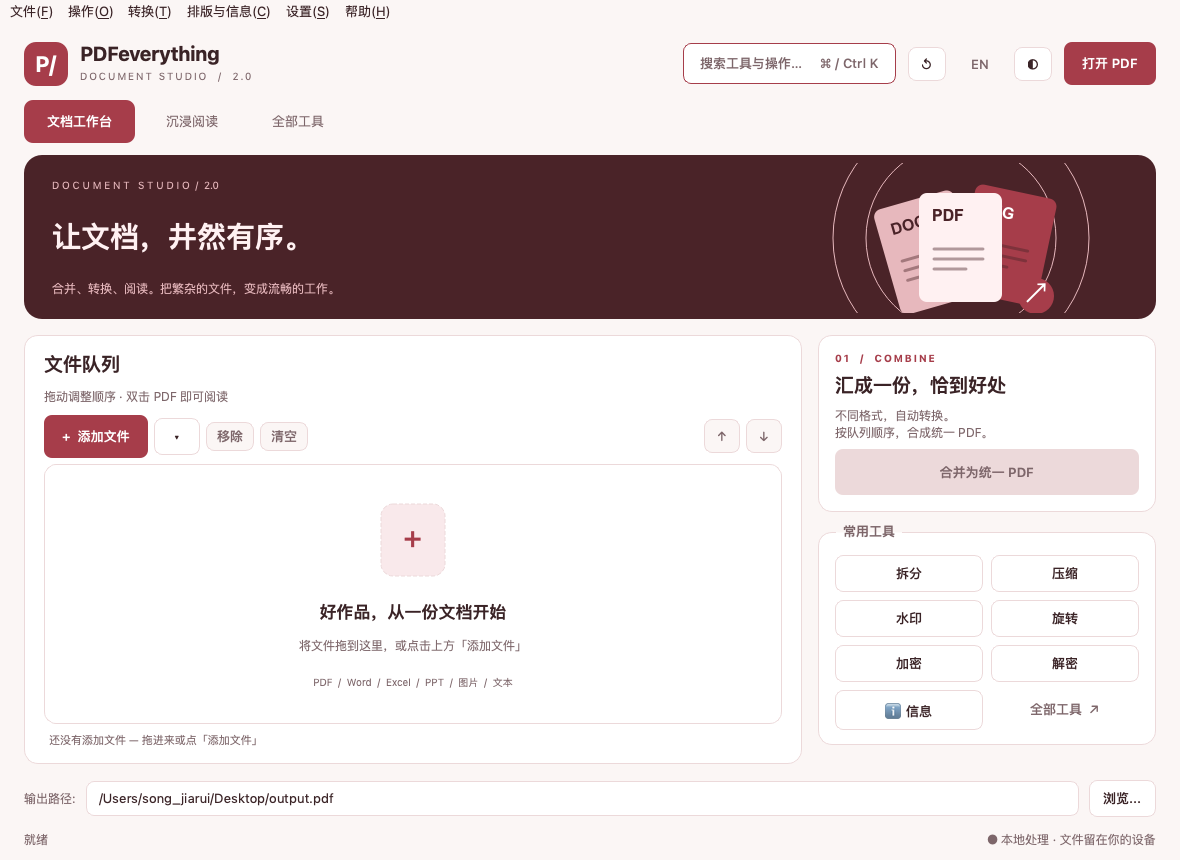
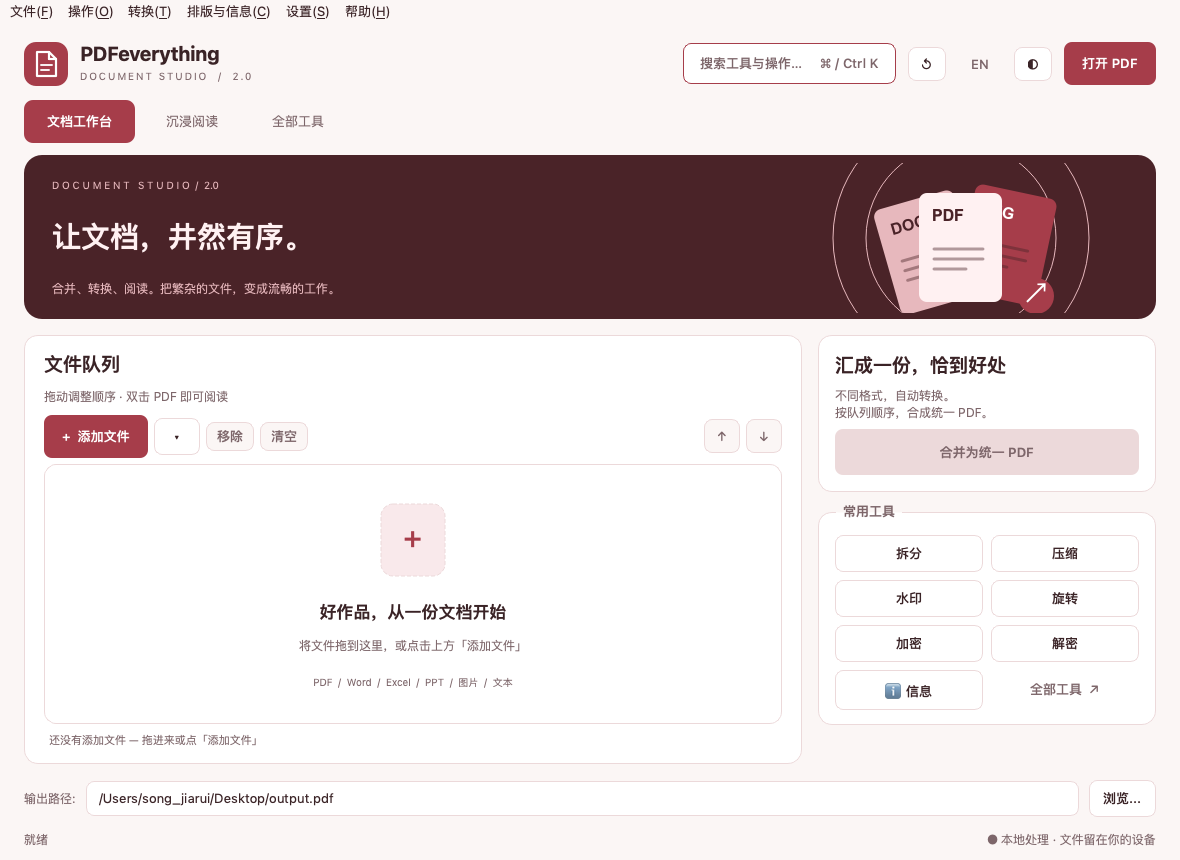
✨ Studio 品牌标记与查找栏按钮
- BrandMark：用 QPainter 绘制文档折角图标，替代 P/ 文字占位，跟随配色刷新
- 阅读器查找栏按钮由符号改为「上一个/下一个/关闭」文字按钮，40px 高可点区域
- 移除合并卡片上多余的 01 / COMBINE overline
- 主题去掉 brand_mark 样式，改由 BrandMark 自绘
- Studio 回归补充查找栏按钮文案与尺寸断言；更新截图并新增查找栏截图

Changed region(s): [[0.7017, 0.393, 0.9763, 0.8465], [0.8237, 0.6651, 0.8542, 0.6953], [0.0305, 0.0605, 0.061, 0.0907]]

diff --git a/gui/main_window.py b/gui/main_window.py
@@ -52,7 +52,8 @@ from .i18n import tr, set_language, current_language, app_settings
 from .pdf_reader_widget import PdfReaderWidget
 from .workers import BaseWorker
 from .theme import SCHEMES, apply_theme, colors, normalize_scheme
-from .workspace import WorkspaceHero, ToolLibrary, CommandPalette, HistoryDialog, clean_title, label
+from .workspace import (BrandMark, WorkspaceHero, ToolLibrary, CommandPalette,
+                        HistoryDialog, clean_title, label)
 
 
 VERSION = "2.0.1"
@@ -92,8 +93,9 @@ class MainWindow(QMainWindow):
         main_layout.setContentsMargins(24, 18, 24, 12)
         main_layout.setSpacing(14)
         header = QHBoxLayout(); header.setSpacing(12)
-        mark = label("P/", "brand_mark"); mark.setFixedSize(44, 44)
-        mark.setAlignment(Qt.AlignmentFlag.AlignCenter); header.addWidget(mark)
+        self.brand_mark = BrandMark()
+        self.brand_mark.setToolTip("PDFeverything")
+        header.addWidget(self.brand_mark)
         brand = QVBoxLayout(); brand.setSpacing(1)
         brand.addWidget(label("PDFeverything", "brand"))
         brand.addWidget(label("DOCUMENT STUDIO  /  2.0", "edition")); header.addLayout(brand)
@@ -141,6 +143,7 @@ class MainWindow(QMainWindow):
         self._style_reader()
         self.reader.refresh_theme()
         self.hero.apply_theme()
+        self.brand_mark.update()
         self.tool_library.apply_theme()
         self.file_list.list_widget.viewport().update()
         if not self.reader.has_document(): self.reader._show_welcome()
@@ -156,6 +159,7 @@ class MainWindow(QMainWindow):
         self._style_reader()
         self.reader.refresh_theme()
         self.hero.apply_theme()
+        self.brand_mark.update()
         self.tool_library.apply_theme()
         self.file_list.list_widget.viewport().update()
         if not self.reader.has_document(): self.reader._show_welcome()
@@ -370,8 +374,11 @@ class MainWindow(QMainWindow):
         self.reader.btn_tab_search.setText(tr("reader_tab_search"))
         self.reader.search_edit.setPlaceholderText(tr("reader_search_placeholder"))
         self.reader.search_check_case.setText(tr("reader_search_case"))
+        self.reader.btn_search_prev.setText(tr("reader_search_prev_short"))
         self.reader.btn_search_prev.setToolTip(tr("reader_search_prev"))
+        self.reader.btn_search_next.setText(tr("reader_search_next_short"))
         self.reader.btn_search_next.setToolTip(tr("reader_search_next"))
+        self.reader.btn_search_close.setText(tr("reader_search_close_short"))
         self.reader.btn_search_close.setToolTip(tr("reader_search_close"))
         self.reader.refresh_search_status()
         if not self.reader._outline_entries:
@@ -451,7 +458,6 @@ class MainWindow(QMainWindow):
         self.merge_group.setObjectName("merge_card")
         mg_layout = QVBoxLayout(self.merge_group); mg_layout.setSpacing(8)
         mg_layout.setContentsMargins(16, 16, 16, 16)
-        overline = label("01  /  COMBINE", "eyebrow"); mg_layout.addWidget(overline)
         merge_title = label("", "section_title"); mg_layout.addWidget(merge_title)
         merge_desc = label(""); merge_desc.setWordWrap(True); mg_layout.addWidget(merge_desc)
         self._studio_labels += [(merge_title, "studio_merge_title"), (merge_desc, "studio_merge_desc")]

diff --git a/gui/pdf_reader_widget.py b/gui/pdf_reader_widget.py
@@ -595,7 +595,8 @@ class PdfReaderWidget(QWidget):
             f"QLineEdit{{color:{fg};background:{_dc('#1e1e1e', '#f7f7f7')};"
             f"border:1px solid {brd};border-radius:4px;padding:4px 8px;font-size:13px;}}"
             f"QLabel{{color:{fg};font-size:12px;}}"
-            f"QCheckBox{{color:{fg};font-size:12px;}}")
+            f"QCheckBox{{color:{fg};font-size:12px;}}"
+            f"QPushButton{{padding:4px 10px;font-size:12px;border-radius:6px;}}")
         row = QHBoxLayout(bar)
         row.setContentsMargins(8, 5, 8, 5)
         row.setSpacing(6)
@@ -613,21 +614,24 @@ class PdfReaderWidget(QWidget):
         self.search_count_label = QLabel("")
         row.addWidget(self.search_count_label)
 
-        self.btn_search_prev = QPushButton("◀")
-        self.btn_search_prev.setFixedSize(28, 26)
+        self.btn_search_prev = QPushButton(tr("reader_search_prev_short"))
+        self.btn_search_prev.setMinimumWidth(64); self.btn_search_prev.setMinimumHeight(30)
         self.btn_search_prev.setToolTip(tr("reader_search_prev"))
+        self.btn_search_prev.setAccessibleName(tr("reader_search_prev"))
         self.btn_search_prev.clicked.connect(self.find_prev)
         row.addWidget(self.btn_search_prev)
 
-        self.btn_search_next = QPushButton("▶")
-        self.btn_search_next.setFixedSize(28, 26)
+        self.btn_search_next = QPushButton(tr("reader_search_next_short"))
+        self.btn_search_next.setMinimumWidth(64); self.btn_search_next.setMinimumHeight(30)
         self.btn_search_next.setToolTip(tr("reader_search_next"))
+        self.btn_search_next.setAccessibleName(tr("reader_search_next"))
         self.btn_search_next.clicked.connect(self.find_next)
         row.addWidget(self.btn_search_next)
 
-        self.btn_search_close = QPushButton("✕")
-        self.btn_search_close.setFixedSize(28, 26)
+        self.btn_search_close = QPushButton(tr("reader_search_close_short"))
+        self.btn_search_close.setMinimumWidth(48); self.btn_search_close.setMinimumHeight(30)
         self.btn_search_close.setToolTip(tr("reader_search_close"))
+        self.btn_search_close.setAccessibleName(tr("reader_search_close"))
         self.btn_search_close.clicked.connect(lambda: self.show_search_bar(False))
         row.addWidget(self.btn_search_close)
 

diff --git a/gui/workspace.py b/gui/workspace.py
@@ -3,7 +3,7 @@
 import re
 
 from PyQt6.QtCore import Qt, QRectF, QSize, QTimer
-from PyQt6.QtGui import QColor, QFont, QPainter, QPen
+from PyQt6.QtGui import QColor, QFont, QPainter, QPainterPath, QPen
 from PyQt6.QtWidgets import (
     QDialog, QGridLayout, QHBoxLayout, QLabel, QLineEdit, QListWidget,
     QListWidgetItem, QPushButton, QScrollArea, QVBoxLayout, QWidget,
@@ -16,6 +16,45 @@ from .theme import colors, file_icon
 def label(text, name="muted"):
     w = QLabel(text); w.setObjectName(name)
     return w
+
+
+class BrandMark(QWidget):
+    """A document-with-folded-corner mark, painted in the active accent color."""
+
+    def __init__(self, parent=None):
+        super().__init__(parent)
+        self.setFixedSize(44, 44)
+        self.setAccessibleName("PDFeverything")
+
+    def paintEvent(self, event):
+        c = colors()
+        p = QPainter(self)
+        p.setRenderHint(QPainter.RenderHint.Antialiasing)
+        p.setPen(Qt.PenStyle.NoPen)
+        p.setBrush(QColor(c["accent"]))
+        p.drawRoundedRect(QRectF(0, 0, 44, 44), 12, 12)
+
+        ink = QColor(c["on_accent"])
+        pen = QPen(ink, 2.2)
+        pen.setJoinStyle(Qt.PenJoinStyle.RoundJoin)
+        pen.setCapStyle(Qt.PenCapStyle.RoundCap)
+        p.setPen(pen)
+        p.setBrush(Qt.BrushStyle.NoBrush)
+        page = QPainterPath()
+        page.moveTo(13, 10)
+        page.lineTo(25, 10)
+        page.lineTo(32, 17)
+        page.lineTo(32, 34)
+        page.lineTo(13, 34)
+        page.closeSubpath()
+        p.drawPath(page)
+        p.drawLine(25, 10, 25, 17)
+        p.drawLine(25, 17, 32, 17)
+
+        p.setPen(QPen(ink, 1.8, Qt.PenStyle.SolidLine, Qt.PenCapStyle.RoundCap))
+        p.drawLine(17, 23, 28, 23)
+        p.drawLine(17, 28, 25, 28)
+        p.end()
 
 
 class DocumentArt(QWidget):

diff --git a/gui/i18n.py b/gui/i18n.py
@@ -131,6 +131,9 @@ T = {
     "reader_search_prev":     {"zh": "上一个 (⇧⏎)",                                  "en": "Previous (⇧⏎)"},
     "reader_search_next":     {"zh": "下一个 (⏎)",                                   "en": "Next (⏎)"},
     "reader_search_close":    {"zh": "关闭查找栏 (Esc)",                              "en": "Close find bar (Esc)"},
+    "reader_search_prev_short": {"zh": "上一个", "en": "Previous"},
+    "reader_search_next_short": {"zh": "下一个", "en": "Next"},
+    "reader_search_close_short": {"zh": "关闭", "en": "Close"},
     "reader_search_found":    {"zh": "找到 {count} 处，分布在 {pages} 页",             "en": "{count} matches on {pages} page(s)"},
     "reader_search_none":     {"zh": "未找到匹配内容",                                 "en": "No matches found"},
     "reader_unsaved_title":   {"zh": "未保存的修改",                                  "en": "Unsaved changes"},

diff --git a/tests/test_studio.py b/tests/test_studio.py
@@ -236,6 +236,9 @@ class StudioTests(unittest.TestCase):
         self.window._switch_language("en"); app.processEvents()
         self.window._switch_language("zh"); app.processEvents()
         self.assertEqual(reader.outline_tree.topLevelItemCount(), 1)
+        for btn in (reader.btn_search_prev, reader.btn_search_next, reader.btn_search_close):
+            self.assertTrue(btn.text())
+            self.assertGreaterEqual(btn.height(), btn.sizeHint().height())
         reader.start_search("report"); app.processEvents()
         self.assertIn("找到", reader.search_status.text())
         self.window._switch_language("en"); app.processEvents()

diff --git a/gui/theme.py b/gui/theme.py
@@ -104,7 +104,6 @@ def stylesheet(dark=False, scheme=None):
     QWidget#app_central, QWidget#workspace, QWidget#tool_library {{ background:{c['bg']}; }}
     QLabel {{ background:transparent; }}
     QLabel#brand {{ font-size:20px; font-weight:700; letter-spacing:-0.7px; }}
-    QLabel#brand_mark {{ background:{c['accent']}; color:{c['on_accent']}; border-radius:12px; font-size:22px; font-weight:700; }}
     QLabel#edition {{ color:{c['muted']}; font-size:10px; letter-spacing:2px; }}
     QLabel#muted, QLabel#file_list_summary {{ color:{c['muted']}; font-size:12px; }}
     QLabel#section_title {{ font-size:19px; font-weight:600; }}
